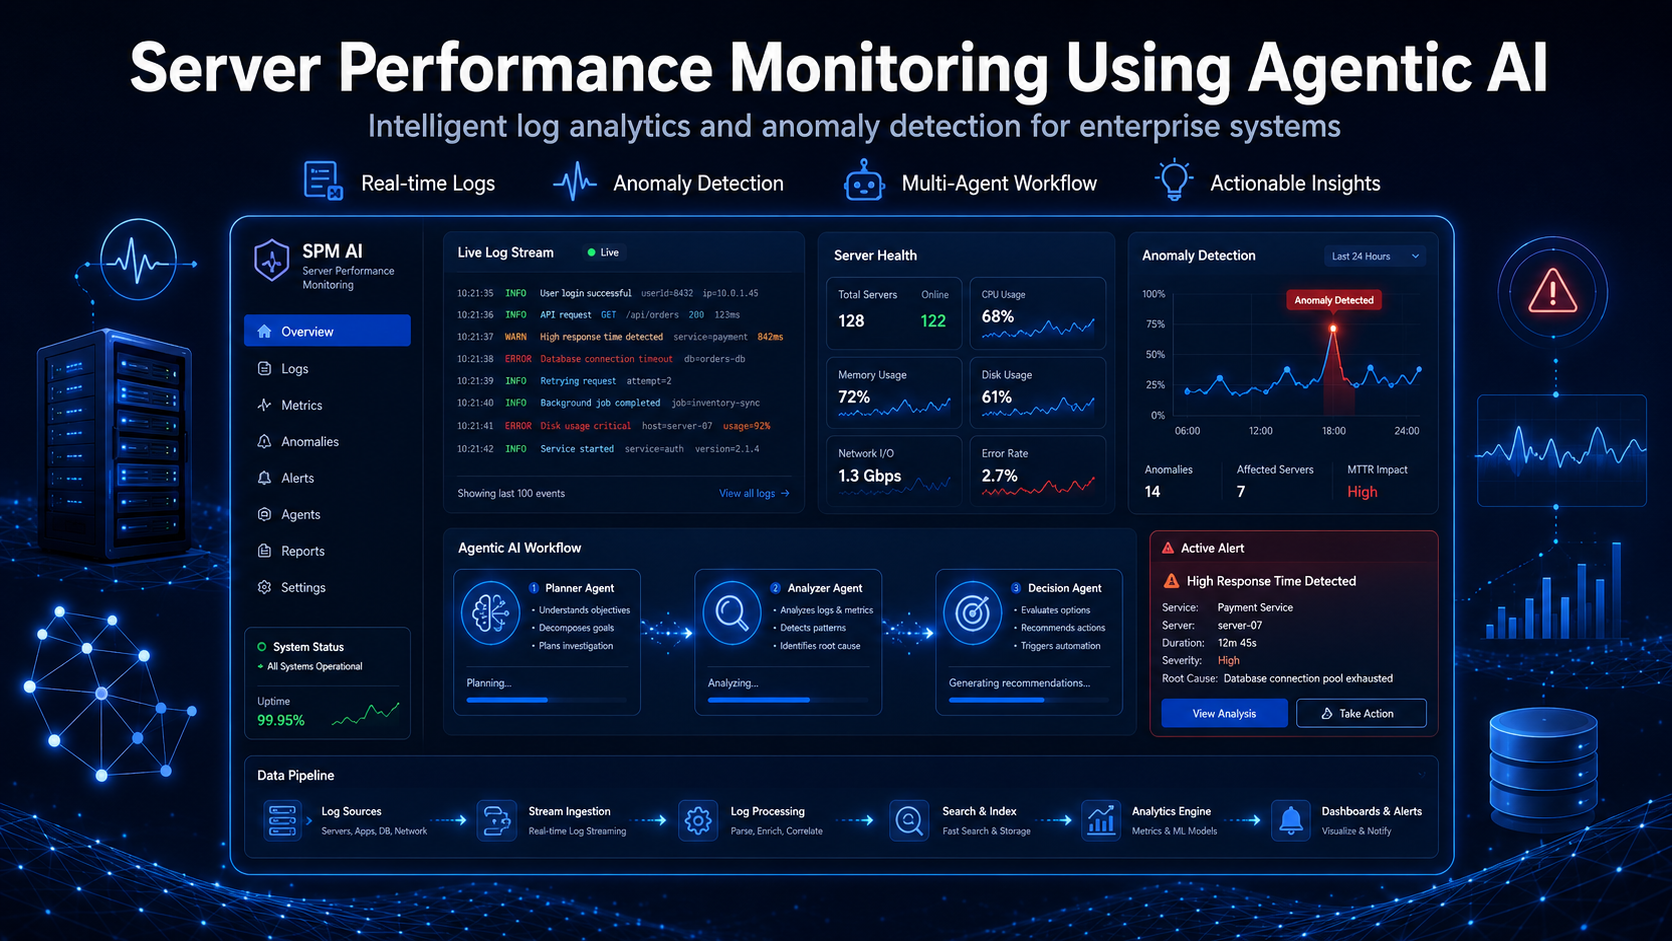
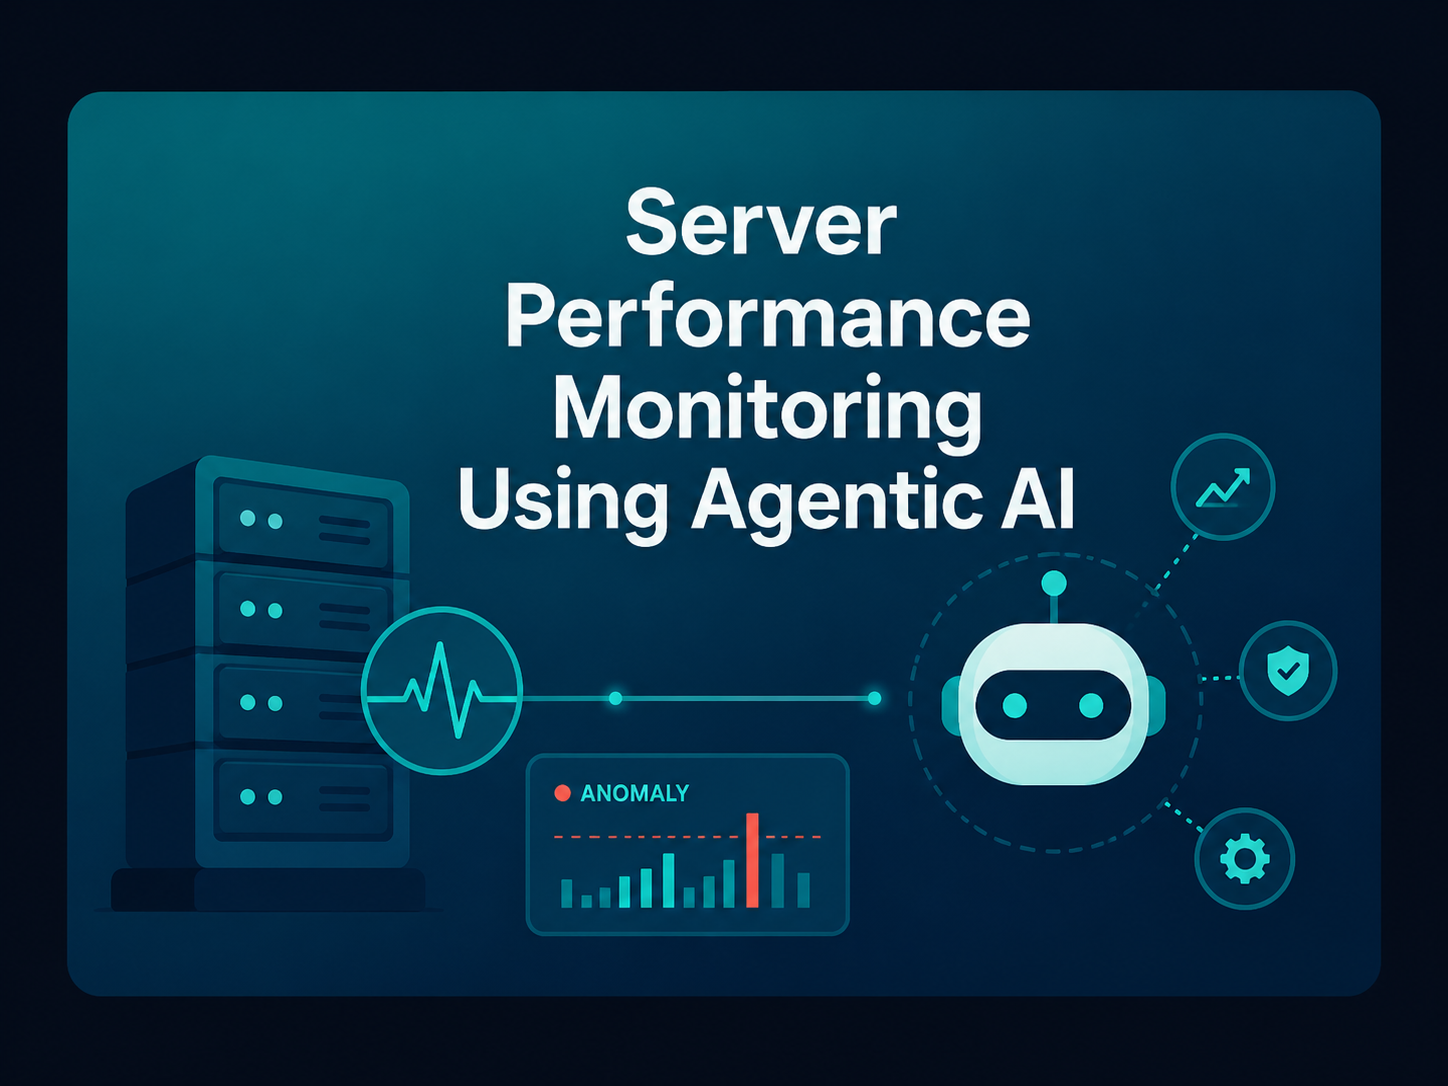
new changes

diff --git a/src/components/ProjectsSection.jsx b/src/components/ProjectsSection.jsx
@@ -19,7 +19,7 @@ const projects = [
         image: "/projects/project 15.png",
         tags: ["Python", "LLMs", "Groq", "RAG", "Semantic Search", "SQLite", "LangChain"],
         demoUrl: "https://drive.google.com/file/d/1qlr9-n8dOxf_pEuoEgc4dvuX7Gv6ef-z/view?usp=drive_link",
-        githubUrl: "#"
+        githubUrl: "https://github.com/navzyy/Legal_Management_System.git"
     },
 
     {
@@ -39,7 +39,7 @@ const projects = [
         image: "/projects/project 16.png",
         tags: ["Agentic AI", "Kafka", "LogAI", "OpenSearch", "Logstash", "Fluentd", "Fluent Bit", "Time-Series Monitoring"],
         demoUrl: "#",
-        githubUrl: "#"
+        githubUrl: "https://github.com/navzyy/Server-Performance-Monitoring-Using-Agentic-AI.git"
     },
 
     {